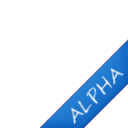
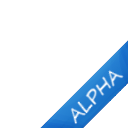
Added Alpha flag support in PluginsManager Page

diff --git a/Scripts/PluginsManagerPage.js b/Scripts/PluginsManagerPage.js
@@ -6,7 +6,7 @@
 			var pluginItemSource = 
 				"<tr>\
 					<td>\
-						<div class='PluginItem'>\
+						<div class='PluginItem" + (obj.Flags.Alpha ? " AlphaFlag" : "") + (obj.Flags.Beta ? " BetaFlag" : "") + "'>\
 							<table style='width:100%'>\
 								<tr>\
 									<td class='PluginOptions'>\
@@ -49,8 +49,9 @@
 			$("#PluginsTable").append(pluginItemSource);
 
 			// Sets flags
-			console.log($("#PluginItem"));
-			if (obj.Flags.Beta == true) $("#PluginItem").addClass("Beta");
+			// NOTE Not yet supported
+			//if (obj.Flags.Internal == true) $("#PluginItem").addClass("InternalFlag");
+			//if (obj.Flags.Featured == true) $("#PluginItem").addClass("FeaturedFlag");
 
 			// Gets active state
 			var activeState = localStorage.getItem("PluginActive" + obj.Name);

diff --git a/Plugins/Core/Services/Services.js b/Plugins/Core/Services/Services.js
@@ -41,7 +41,7 @@ var ServicesMetadata = {
 
 	Flags: {
 		Internal: false,
-		Alpha: false,
+		Alpha: true,
 		Beta: false,
 		Featured: false
 	},
